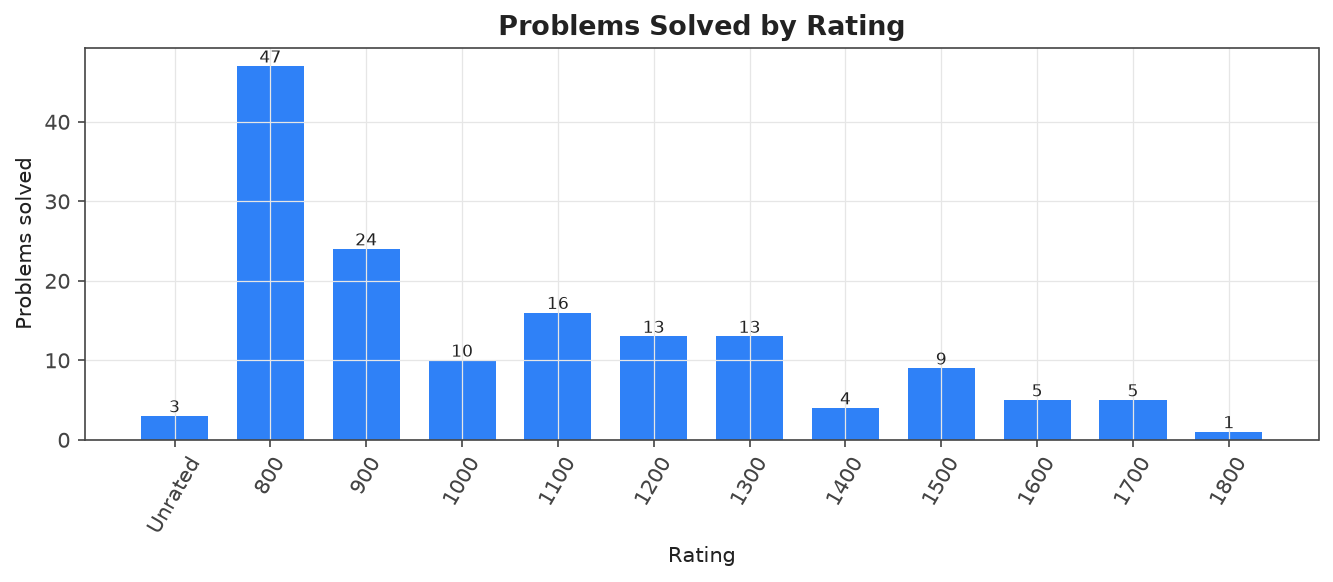
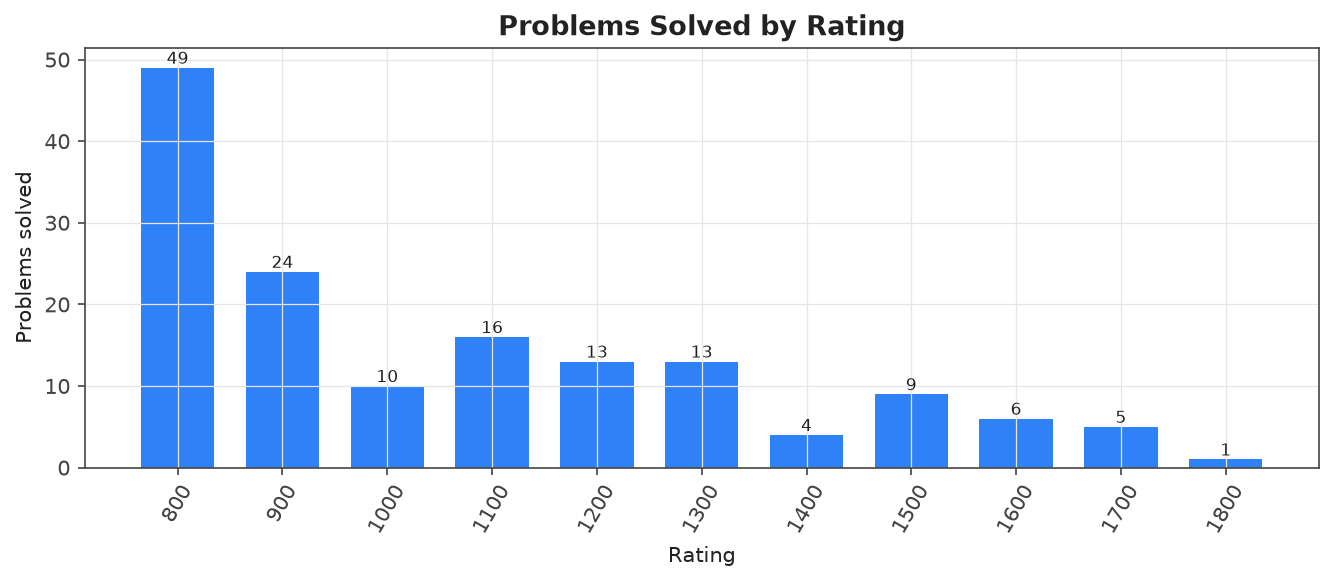
Sync: refresh analytics (rating/streak update, no new problems)

diff --git a/README.md b/README.md
@@ -37,7 +37,7 @@ Auto-generated archive of accepted Codeforces submissions for **[om_sharma_](htt
 
 | Rating | Count |
 |---|---|
-| 0800 | 47 |
+| 0800 | 49 |
 | 0900 | 24 |
 | 1000 | 10 |
 | 1100 | 16 |
@@ -45,10 +45,9 @@ Auto-generated archive of accepted Codeforces submissions for **[om_sharma_](htt
 | 1300 | 13 |
 | 1400 | 4 |
 | 1500 | 9 |
-| 1600 | 5 |
+| 1600 | 6 |
 | 1700 | 5 |
 | 1800 | 1 |
-| Unrated | 3 |
 
 ### By tag
 
@@ -87,9 +86,6 @@ Auto-generated archive of accepted Codeforces submissions for **[om_sharma_](htt
 
 | # | Problem | Rating | Tags | Code | Link |
 |---|---|---|---|---|---|
-| 2257A | [Creating Abbreviations](problems/brute-force/Unrated_2257A-Creating-Abbreviations) | ? | `brute force`, `strings` | — | [CF](https://codeforces.com/contest/2257/problem/A) |
-| 2257B | [Gigantomachy](problems/math/Unrated_2257B-Gigantomachy) | ? | `math` | — | [CF](https://codeforces.com/contest/2257/problem/B) |
-| 2257D | [Bermuda Rectangle](problems/binary-search/Unrated_2257D-Bermuda-Rectangle) | ? | `binary search`, `implementation`, `math`, `number theory`, `two pointers` | — | [CF](https://codeforces.com/contest/2257/problem/D) |
 | 4A | [Watermelon](problems/brute-force/0800_4A-Watermelon) | 800 | `brute force`, `math` | — | [CF](https://codeforces.com/contest/4/problem/A) |
 | 14A | [Letter](problems/implementation/0800_14A-Letter) | 800 | `implementation` | — | [CF](https://codeforces.com/contest/14/problem/A) |
 | 71A | [Way Too Long Words](problems/strings/0800_71A-Way-Too-Long-Words) | 800 | `strings` | — | [CF](https://codeforces.com/contest/71/problem/A) |
@@ -137,6 +133,8 @@ Auto-generated archive of accepted Codeforces submissions for **[om_sharma_](htt
 | 2253A | [The Best Card](problems/greedy/0800_2253A-The-Best-Card) | 800 | `greedy`, `math`, `number theory` | — | [CF](https://codeforces.com/contest/2253/problem/A) |
 | 2254A | [Riptide](problems/implementation/0800_2254A-Riptide) | 800 | `implementation`, `sortings` | — | [CF](https://codeforces.com/contest/2254/problem/A) |
 | 2256A | [Three Numbers on the Blackboard](problems/math/0800_2256A-Three-Numbers-on-the-Blackboard) | 800 | `math`, `sortings` | — | [CF](https://codeforces.com/contest/2256/problem/A) |
+| 2257A | [Creating Abbreviations](problems/brute-force/0800_2257A-Creating-Abbreviations) | 800 | `brute force`, `strings` | — | [CF](https://codeforces.com/contest/2257/problem/A) |
+| 2257B | [Gigantomachy](problems/math/0800_2257B-Gigantomachy) | 800 | `math` | — | [CF](https://codeforces.com/contest/2257/problem/B) |
 | 337A | [Puzzles](problems/greedy/0900_337A-Puzzles) | 900 | `greedy` | — | [CF](https://codeforces.com/contest/337/problem/A) |
 | 1374B | [Multiply by 2, divide by 6](problems/math/0900_1374B-Multiply-by-2-divide-by-6) | 900 | `math` | — | [CF](https://codeforces.com/contest/1374/problem/B) |
 | 1440B | [Sum of Medians](problems/greedy/0900_1440B-Sum-of-Medians) | 900 | `greedy`, `math` | — | [CF](https://codeforces.com/contest/1440/problem/B) |
@@ -231,6 +229,7 @@ Auto-generated archive of accepted Codeforces submissions for **[om_sharma_](htt
 | 1730B | [Meeting on the Line](problems/binary-search/1600_1730B-Meeting-on-the-Line) | 1600 | `binary search`, `geometry`, `greedy`, `implementation`, `math`, `ternary search` | — | [CF](https://codeforces.com/contest/1730/problem/B) |
 | 2040C | [Ordered Permutations](problems/bitmasks/1600_2040C-Ordered-Permutations) | 1600 | `bitmasks`, `combinatorics`, `constructive algorithms`, `greedy`, `math`, `two pointers` | — | [CF](https://codeforces.com/contest/2040/problem/C) |
 | 2048D | [Kevin and Competition Memories](problems/binary-search/1600_2048D-Kevin-and-Competition-Memories) | 1600 | `binary search`, `brute force`, `data structures`, `greedy`, `sortings`, `two pointers` | — | [CF](https://codeforces.com/contest/2048/problem/D) |
+| 2257D | [Bermuda Rectangle](problems/binary-search/1600_2257D-Bermuda-Rectangle) | 1600 | `binary search`, `implementation`, `math`, `number theory`, `two pointers` | — | [CF](https://codeforces.com/contest/2257/problem/D) |
 | 14C | [Four Segments](problems/brute-force/1700_14C-Four-Segments) | 1700 | `brute force`, `constructive algorithms`, `geometry`, `implementation`, `math` | — | [CF](https://codeforces.com/contest/14/problem/C) |
 | 474D | [Flowers](problems/dp/1700_474D-Flowers) | 1700 | `dp` | — | [CF](https://codeforces.com/contest/474/problem/D) |
 | 2045A | [Scrambled Scrabble](problems/brute-force/1700_2045A-Scrambled-Scrabble) | 1700 | `brute force`, `greedy` | — | [CF](https://codeforces.com/contest/2045/problem/A) |
